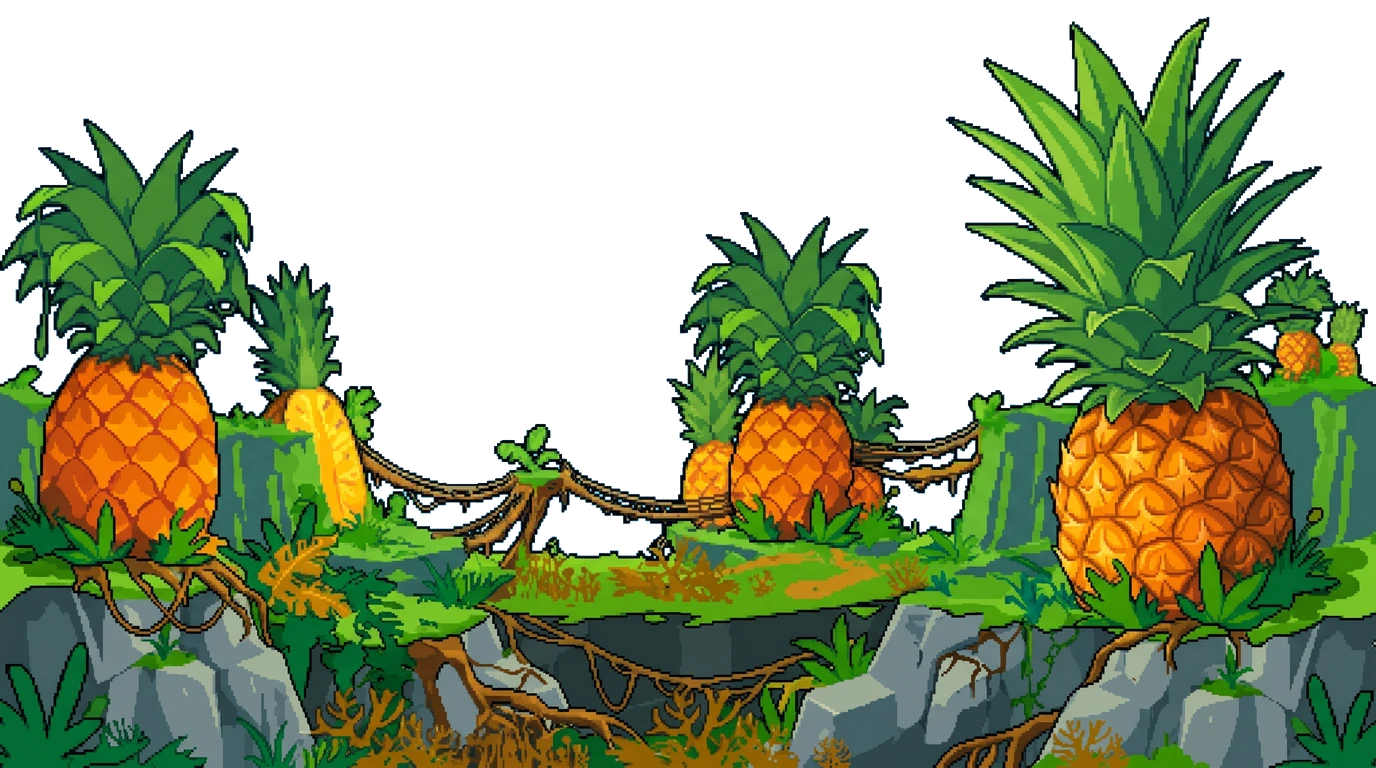
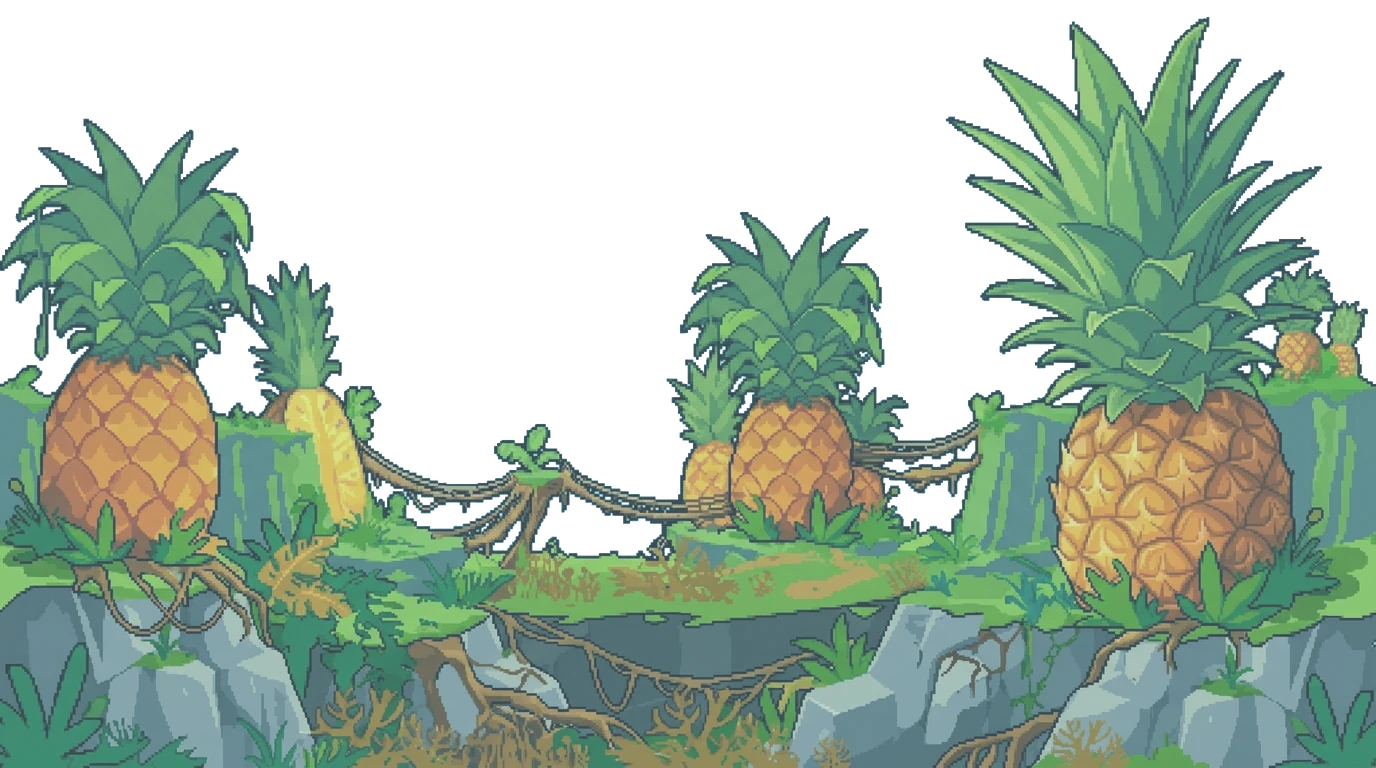
Mondo 1: fondale più leggero, risaltano pizze e nemici
Velatura azzurra del 32% e colori meno saturi.

diff --git a/index.html b/index.html
@@ -4,7 +4,7 @@
 <link rel="preconnect" href="https://fonts.googleapis.com">
 <link rel="preconnect" href="https://fonts.gstatic.com" crossorigin>
 <link rel="stylesheet" href="https://fonts.googleapis.com/css2?family=Bowlby+One&family=Baloo+2:wght@500;700;800&display=swap">
-<link rel="stylesheet" href="style.css?v=44">
+<link rel="stylesheet" href="style.css?v=45">
 
 <div id="schermo">
 <canvas id="d2" aria-label="Gioco Cicciobomba"></canvas>
@@ -85,6 +85,6 @@
 <div id="erroreT" hidden>Il gioco non è riuscito a partire. Controlla la connessione e ricarica la pagina.</div>
 
 </div>
-<script src="game.js?v=44"></script>
+<script src="game.js?v=45"></script>
 
 </body></html>

diff --git a/CLAUDE.md b/CLAUDE.md
@@ -6,7 +6,7 @@ Gioco per browser pensato per il telefono in orizzontale, pubblicato con GitHub 
 - `index.html`: solo il markup delle schermate (menu, guida, amici e skin, pausa, fine, HUD).
 - `style.css`: lo stile, con i colori come variabili su `:root`.
 - `game.js`: tutta la logica, in un unico script classico chiuso in una funzione e diviso in sezioni `/* ---------- NOME ---------- */`: orientamento, salvataggio, mondi e tappe, kit grafico e sonoro, skin, palla dipinta, audio, stato, comandi, cuori, corsa 2D, boss 2D, la bomba, guida, flusso, menu, ciclo.
-- `assets/`: `matteo_fermo.webp`, `matteo_cammina.webp`, `matteo_salto.webp`, `matteo_palla.webp` e `matteo_stanco.webp` (il Matteo nuovo dell'utente, con la camicia blu: mappe nei commenti sopra `fogSpr`. In partita li usa solo il Matteo normale, senza colore, skin o foto; gli amici, il menu e la guida usano ancora `personaggio*.webp`. Alto 3,8 raggi (`SPR_K`), piedi abbassati di `SPR_PIEDI`. `matteo_cammina.webp` ha solo i fotogrammi scelti, nell'ordine in cui braccia e gambe si alternano: 0-5 corre, 6-9 cammina, 10-20 si gira per noia. La camminata alterna le gambe: destra avanti (2ª riga, 6°, senza la macchia grigia), passaggio (4ª riga, 4°), sinistra avanti (4ª riga, 6°), passaggio (2ª riga, 2°). Nel foglio la gamba vicina è la destra: è più chiara e ha la tasca; le altre righe hanno quasi sempre la sinistra avanti. L'utente non vuole dissolvenze tra i fotogrammi, perché sembrano sfumati, né un contorno nero aggiunto), `fondi/ananas_nuovo.webp` (fondale attuale del mondo 1, ripetuto a specchio da `strato`), `kit.webp` (atlante dei blocchi Kenney, coordinate in `KMAP`), `personaggio.webp`, `personaggio2.webp` e `personaggio3.webp` (fogli delle animazioni di Matteo; il terzo è Matteo stanco, con le stesse celle da 200 del secondo), `fumo.webp`, `polvere.webp`, `esplosione.webp`, `pizza.webp`, `kit2.webp` (altri pezzi del kit), `nemico_ananas.webp` (l'ananas arrabbiato dal foglio "Pineapple Tiles" CC0 dell'utente, nemico del mondo 1; degli altri pezzi di quel foglio l'utente non vuole niente, né per il terreno né per le grotte; il terreno ananas di `paesaggio.webp` è un'altra serie, che invece gli va bene), `paesaggio.webp` (terreno del mondo 1: buccia e polpa d'ananas disegnate dall'utente, caselle da 68 nello stesso ordine di `PIX`, poi la rampa (`sprite-20.png`), la terra sotto la rampa (`paesaggio.png`) e i lati del piano: ai piedi di un muro (`sprite-28.png`), gradino in giù (`sprite-29.png`) e bordo sul vuoto (`sprite-30.png`), poi il muro accanto al bordo sul vuoto (`sprite-32.png`) sotto una colonna (`sprite-33.png`) e il piano ai lati della colonna (`sprite-31.png`); i pezzi singoli stanno in `paesaggio/`), `erbananas.webp` (ciuffo d'ananas dell'utente, al posto del cespuglio nei decori del mondo 1 e nel menu, disegnato da `ciuffo()` in grandezza vera, alla scala delle caselle da 68, perché il bordo scuro sia spesso come quello del pavimento. Largo più di 3 caselle, deve stare tutto sul piano: se sporge sul vuoto rientra un po' a sinistra (`d.dx`), e se non ci sta diventa erba; l'originale è `paesaggio/erbananas.png`), `bomba.webp` (Matteo carico al massimo: 37 fotogrammi da 160 in righe da 10, mappa in `disegnaBomba`), `boss_ananas.webp` (Ananassone: fotogrammi da 192x204 in righe da 8, 32-34 stordito, mappa in `disegnaAnanas` e `disegnaBoss`; gli altri due boss sono ancora disegnati nel codice in `BOSPR`), `fondi/*.webp` (nel mondo 1, con `retro:'cielo'`, dietro c'è solo il cielo: azzurro sfumato e in alto la striscia `cielo_nuvole.webp`, ritagliata dal disegno dell'utente; l'utente ha provato a metterci sopra un dipinto della valle col fiume e non lo vuole: dietro resta solo il cielo; davanti `ananas_ponti.webp`, il disegno dell'utente con gli ananas giganti e i ponti (1024x572, già scontornato da lui), che scorre piano (0,1). L'utente l'ha ridisegnato perché i bordi destro e sinistro si attacchino: `stratoPonti` mette le copie una dopo l'altra, sovrapposte di un pixel, senza sfumature né specchio. `strato()` ripete le immagini specchiate una volta sì e una no, senza le due colonne di bordo e sovrapposte di 3 px: prima tra una copia e l'altra si vedeva una riga chiara. Restano nel codice, non usati, il fondale arancio `ananas_lontano.webp` (`retro:'ananas_lontano'`) e gli oggetti di `oggetti.webp` (`oggetti:true`, `filaOggetti`)), messi in due file ripetute e sovrapposte da `filaOggetti`, con `oggetti:true` nel mondo. La felce grande è attaccata all'albero e resta con lui; le liane e la foglia sola non si usano), `suoni/*.mp3`.
+- `assets/`: `matteo_fermo.webp`, `matteo_cammina.webp`, `matteo_salto.webp`, `matteo_palla.webp` e `matteo_stanco.webp` (il Matteo nuovo dell'utente, con la camicia blu: mappe nei commenti sopra `fogSpr`. In partita li usa solo il Matteo normale, senza colore, skin o foto; gli amici, il menu e la guida usano ancora `personaggio*.webp`. Alto 3,8 raggi (`SPR_K`), piedi abbassati di `SPR_PIEDI`. `matteo_cammina.webp` ha solo i fotogrammi scelti, nell'ordine in cui braccia e gambe si alternano: 0-5 corre, 6-9 cammina, 10-20 si gira per noia. La camminata alterna le gambe: destra avanti (2ª riga, 6°, senza la macchia grigia), passaggio (4ª riga, 4°), sinistra avanti (4ª riga, 6°), passaggio (2ª riga, 2°). Nel foglio la gamba vicina è la destra: è più chiara e ha la tasca; le altre righe hanno quasi sempre la sinistra avanti. L'utente non vuole dissolvenze tra i fotogrammi, perché sembrano sfumati, né un contorno nero aggiunto), `fondi/ananas_nuovo.webp` (fondale attuale del mondo 1, ripetuto a specchio da `strato`. Velato del 32% verso l'azzurro `#aee9fb` e con i colori al 82%: a piena forza competeva con pizze e nemici, a 48% era slavato), `kit.webp` (atlante dei blocchi Kenney, coordinate in `KMAP`), `personaggio.webp`, `personaggio2.webp` e `personaggio3.webp` (fogli delle animazioni di Matteo; il terzo è Matteo stanco, con le stesse celle da 200 del secondo), `fumo.webp`, `polvere.webp`, `esplosione.webp`, `pizza.webp`, `kit2.webp` (altri pezzi del kit), `nemico_ananas.webp` (l'ananas arrabbiato dal foglio "Pineapple Tiles" CC0 dell'utente, nemico del mondo 1; degli altri pezzi di quel foglio l'utente non vuole niente, né per il terreno né per le grotte; il terreno ananas di `paesaggio.webp` è un'altra serie, che invece gli va bene), `paesaggio.webp` (terreno del mondo 1: buccia e polpa d'ananas disegnate dall'utente, caselle da 68 nello stesso ordine di `PIX`, poi la rampa (`sprite-20.png`), la terra sotto la rampa (`paesaggio.png`) e i lati del piano: ai piedi di un muro (`sprite-28.png`), gradino in giù (`sprite-29.png`) e bordo sul vuoto (`sprite-30.png`), poi il muro accanto al bordo sul vuoto (`sprite-32.png`) sotto una colonna (`sprite-33.png`) e il piano ai lati della colonna (`sprite-31.png`); i pezzi singoli stanno in `paesaggio/`), `erbananas.webp` (ciuffo d'ananas dell'utente, al posto del cespuglio nei decori del mondo 1 e nel menu, disegnato da `ciuffo()` in grandezza vera, alla scala delle caselle da 68, perché il bordo scuro sia spesso come quello del pavimento. Largo più di 3 caselle, deve stare tutto sul piano: se sporge sul vuoto rientra un po' a sinistra (`d.dx`), e se non ci sta diventa erba; l'originale è `paesaggio/erbananas.png`), `bomba.webp` (Matteo carico al massimo: 37 fotogrammi da 160 in righe da 10, mappa in `disegnaBomba`), `boss_ananas.webp` (Ananassone: fotogrammi da 192x204 in righe da 8, 32-34 stordito, mappa in `disegnaAnanas` e `disegnaBoss`; gli altri due boss sono ancora disegnati nel codice in `BOSPR`), `fondi/*.webp` (nel mondo 1, con `retro:'cielo'`, dietro c'è solo il cielo: azzurro sfumato e in alto la striscia `cielo_nuvole.webp`, ritagliata dal disegno dell'utente; l'utente ha provato a metterci sopra un dipinto della valle col fiume e non lo vuole: dietro resta solo il cielo; davanti `ananas_ponti.webp`, il disegno dell'utente con gli ananas giganti e i ponti (1024x572, già scontornato da lui), che scorre piano (0,1). L'utente l'ha ridisegnato perché i bordi destro e sinistro si attacchino: `stratoPonti` mette le copie una dopo l'altra, sovrapposte di un pixel, senza sfumature né specchio. `strato()` ripete le immagini specchiate una volta sì e una no, senza le due colonne di bordo e sovrapposte di 3 px: prima tra una copia e l'altra si vedeva una riga chiara. Restano nel codice, non usati, il fondale arancio `ananas_lontano.webp` (`retro:'ananas_lontano'`) e gli oggetti di `oggetti.webp` (`oggetti:true`, `filaOggetti`)), messi in due file ripetute e sovrapposte da `filaOggetti`, con `oggetti:true` nel mondo. La felce grande è attaccata all'albero e resta con lui; le liane e la foglia sola non si usano), `suoni/*.mp3`.
 - `tools/build.py`: ricompone tutto in `dist/cicciobomba.html`, un file unico con le risorse dentro, che si apre con un doppio clic. `dist/` è generata ed esclusa da git: non modificarla a mano.
 
 ## Regole
